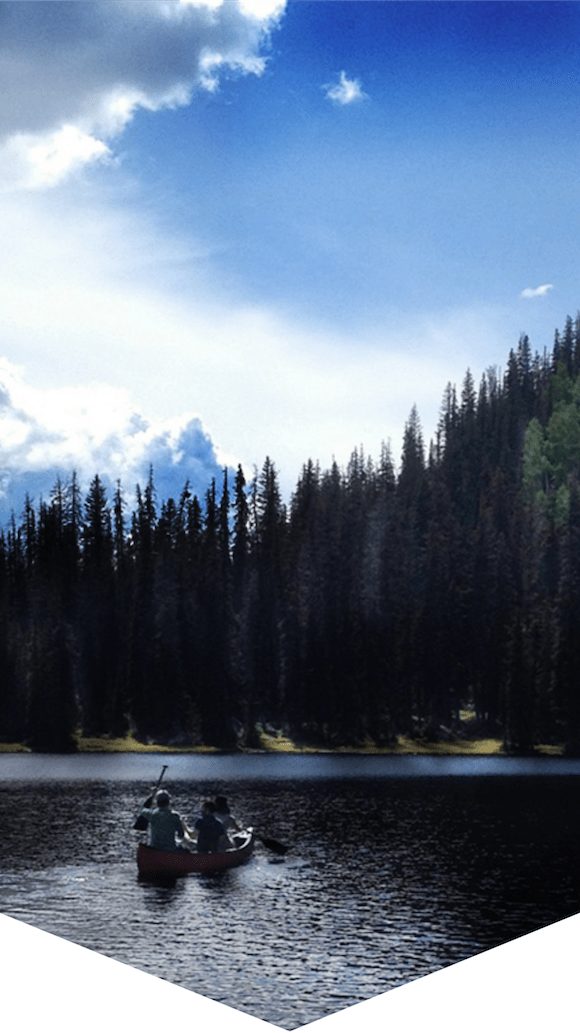
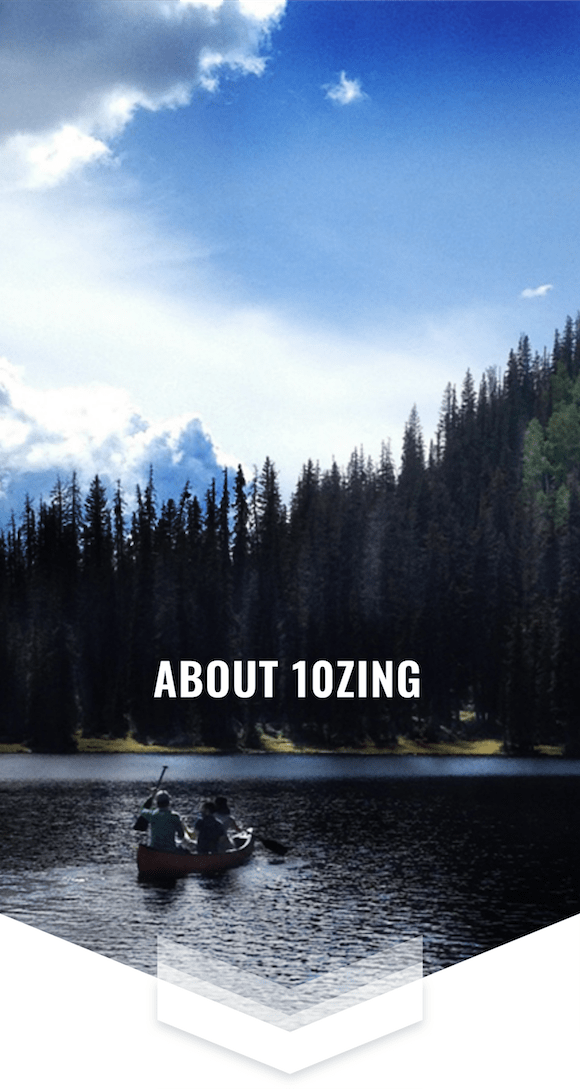
new heroes - broken looking About pg

diff --git a/client/views/about.html b/client/views/about.html
@@ -61,7 +61,7 @@
     <section class="section1-v2" id="about-section1">
 
       <div class="content">
-        <h2>ABOUT US</h2>
+        <!-- <h2>ABOUT US</h2> -->
         <p>Our name, 10ZING Digital, was inspired by Tenzing Norgay, one of the first people to summit Mt. Everest with Edmund Hillary in 1953 well before the advent of modern climbing gear or Google Maps. Neither man ever revealed who reached the peak first. Theirs was a selfless partnership sharing in the glory of their epic achievement. This is the kind of partner we strive to be at 10ZING Digital.</p>
         <p>We hope you’ll summit with us!</p>
       </div>
@@ -72,13 +72,11 @@
         <h2>FOUNDERS</h2>
 
         <section class="bio alex">
-
           <div class="outer-img-wrapper">
             <div class="img-wrapper">
               <div class="img-div"></div>
             </div>
           </div>
-
           <h3>ALEX SEPULVEDA</h3>
           <p>When I studied linguistics at Harvard in the ’90s with the aim of becoming an academic, I had no idea how applicable my major would become to the emerging field of internet marketing. In college, I spent a lot of time thinking about how people use words and language, and do so to this day as I craft keyword optimization, search marketing and editorial strategies for our clients.</p>
           <p>I began my career in digital marketing at Backcountry.com in 2002 as the site’s first content manager, helping grow the company into a top online retailer of outdoor gear.</p>
@@ -107,7 +105,6 @@
           <div class="img-div"></div>
         </div>
       </div>
-
       <div class="content">
         <h2>OUR TEAM</h2>
         <p>Every 10ZING team member is a subject matter expert in their respective channel but maintains cross-channel proficiency which allows us to collaborate effectively. We are seasoned digital marketers who have managed and executed programs and strategies from the tactical to the executive level across nearly every industry. We offer high-touch service based on a deep understanding of our clients’ products and goals, and our technical and marketing expertise.</p>

diff --git a/client/styles/about.css b/client/styles/about.css
@@ -2,24 +2,6 @@ section {
   position: relative;
 }
 
-/*  HERO  */
-.img-div {
-  background-position: center;
-  position: absolute;
-  top: 0; bottom: 0; left: 0; right: 0;
-}
-.img-wrapper {
-	position: absolute;
-	width: 100%;
-}
-.outer-img-wrapper {
-	position: absolute;
-}
-
-
-/*  SECTIONS  */
-
-
 
 /* BIOS */
 .about.section2 {
@@ -81,14 +63,9 @@ Desktop = 576+
     background:url('/assets/About_hero_mobile.png') no-repeat center;
     background-size:cover;
   }
-
-	/* .hero .img-div {
-		background:url('/assets/About_hero_mobile.png') no-repeat center;
-		background-size:cover;
-	}
-	.hero .img-wrapper {
-		padding-bottom: 180%;
-	} */
+  .hero .img-wrapper {
+  	padding-bottom: 189%;
+  }
 
 	.section1 .content {
 		margin: 0 auto;

diff --git a/client/index.css b/client/index.css
@@ -22,7 +22,7 @@ section {
   background-size:cover;
 }
 .hero .img-wrapper {
-	padding-bottom: 57%;
+	padding-bottom: 60%;
 	position: relative;
 }
 
@@ -174,7 +174,7 @@ footer {
 		background-size:cover;
 	}
 	.hero .img-wrapper {
-		padding-bottom: 180%;
+		padding-bottom: 187%;
 	}
   /* section 1 */
 	.section1 {
